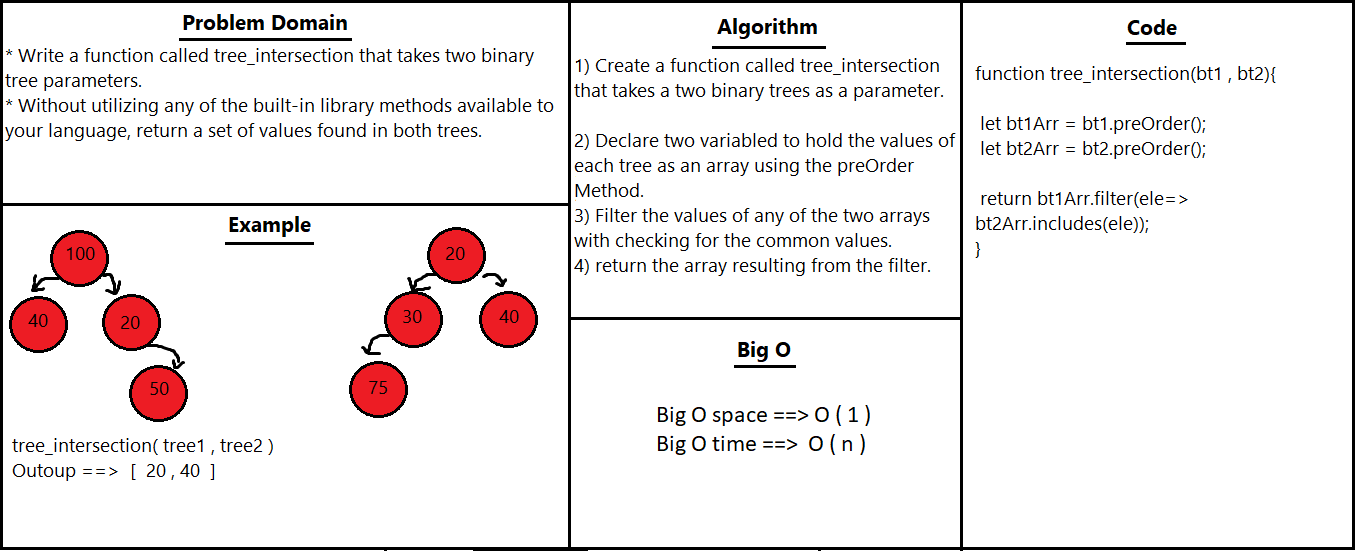
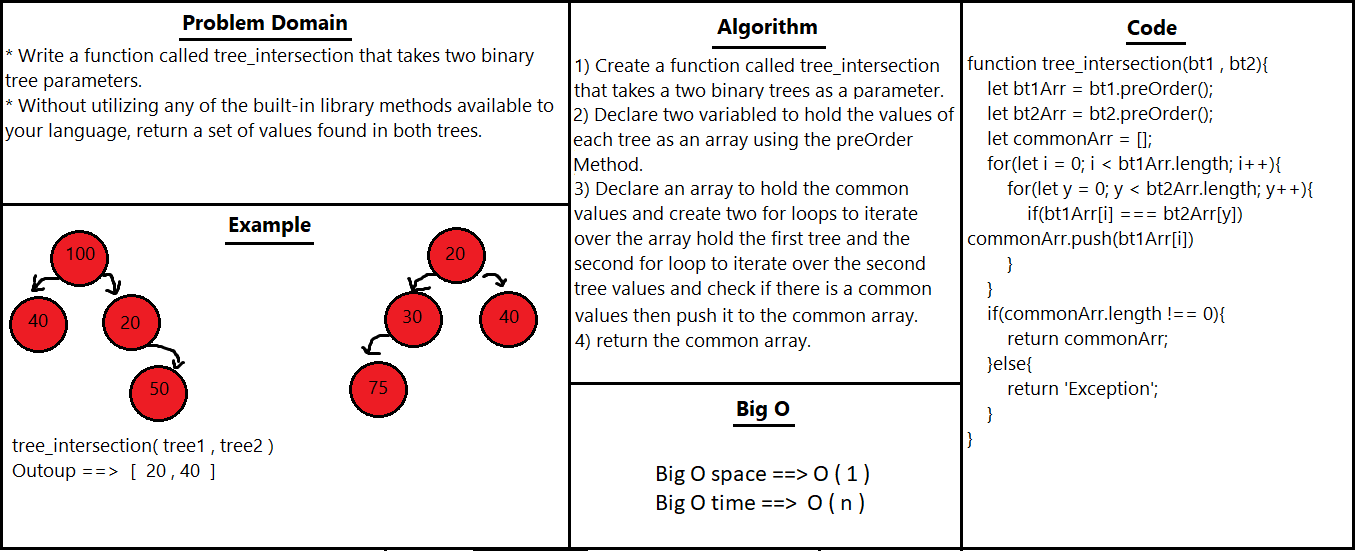
treeintersection

Changed region(s): [[0.403, 0.0926, 0.9609, 0.9256]]

diff --git a/challenges/treeIntersection/tree-intersection.test.js b/challenges/treeIntersection/tree-intersection.test.js
@@ -4,8 +4,9 @@ const treeIntersection = require("./tree-intersection.js");
 describe("Tree Instersection Test", () => {
     let tree1;
     let tree2;
-  beforeAll(() => {
     const a150 = new Node(150);
+    const b42 = new Node(42);
+  beforeAll(() => {
     const a100 = new Node(100);
     const a250 = new Node(250);
     const a75 = new Node(75);
@@ -27,7 +28,6 @@ describe("Tree Instersection Test", () => {
     a350.left = a300;
     a350.right = a500;
 
-    const b42 = new Node(42);
     const b100 = new Node(100);
     const b600 = new Node(600);
     const b15 = new Node(15);
@@ -52,7 +52,28 @@ describe("Tree Instersection Test", () => {
     tree1 = new BinaryTree(a150);
     tree2 = new BinaryTree(b42);
   });
+  it('should create two Binary trees',()=>{
+    expect(tree1.root.value).toBe(a150.value);
+    expect(tree2.root.value).toBe(b42.value);
+  });
   it('should return a set of values found in both trees.',()=>{
-      expect(treeIntersection(tree1,tree2)).toEqual([100, 160, 125, 175, 200, 350, 500])
+    expect(treeIntersection(tree1,tree2)).toEqual([100, 160, 125, 175, 200, 350, 500])
+  });
+  it('should thorw an exception when there is no common values',()=>{
+    const a100 = new Node(100);
+    const a200 = new Node(200);
+    const a300 = new Node(300);
+    a100.left = a200;
+    a100.right = a300;
+
+    const b50 = new Node(50);
+    const b150 = new Node(150);
+    const b250 = new Node(250);
+    b50.left = b150;
+    b50.right = b250;
+
+    tree1 = new BinaryTree(a100);
+    tree2 = new BinaryTree(b50);
+    expect(treeIntersection(tree1 , tree2)).toBe('Exception');
   });
 });

diff --git a/challenges/treeIntersection/tree-intersection.js b/challenges/treeIntersection/tree-intersection.js
@@ -2,6 +2,16 @@
 function tree_intersection(bt1 , bt2){
     let bt1Arr = bt1.preOrder();
     let bt2Arr = bt2.preOrder();
-   return bt1Arr.filter(ele=> bt2Arr.includes(ele));
+    let commonArr = [];
+    for(let i = 0; i < bt1Arr.length; i++){
+        for(let y = 0; y < bt2Arr.length; y++){
+            if(bt1Arr[i] === bt2Arr[y])commonArr.push(bt1Arr[i])
+        }
+    }
+    if(commonArr.length !== 0){
+        return commonArr;
+    }else{
+        return 'Exception';
+    }
 }
 module.exports = tree_intersection;
